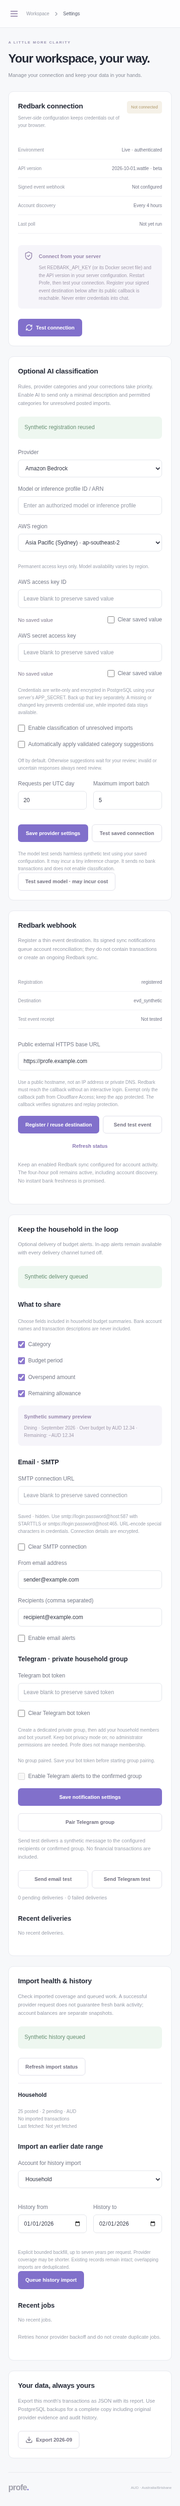
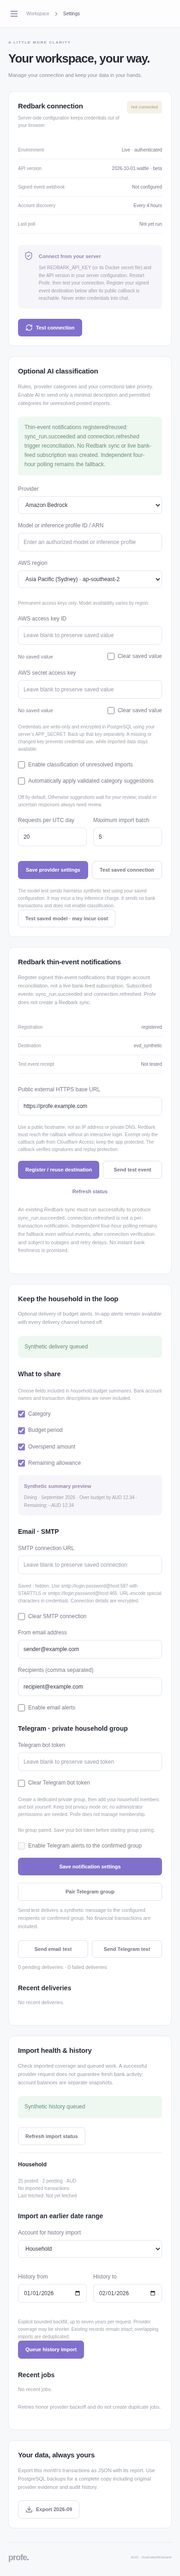
Clarify thin Redbark notifications and imported history coverage

diff --git a/frontend/src/components/integration-settings.jsx b/frontend/src/components/integration-settings.jsx
@@ -315,11 +315,12 @@ export function IntegrationSettings({ api, demo }) {
         </form>
       </section>
       <section className="card settings-card integration-settings">
-        <h2>Redbark webhook</h2>
+        <h2>Redbark thin-event notifications</h2>
         <p className="muted">
-          Register a thin event destination. Its signed sync notifications queue
-          account reconciliation; they do not contain transactions or create an
-          ongoing Redbark sync.
+          Register signed thin-event notifications that trigger account
+          reconciliation, not a live bank-feed subscription. Subscribed events:
+          sync_run.succeeded and connection.refreshed. Profe does not create a
+          Redbark sync.
         </p>
         <dl>
           <div>
@@ -345,12 +346,16 @@ export function IntegrationSettings({ api, demo }) {
         <form
           onSubmit={(e) => {
             e.preventDefault();
-            action(() =>
-              api("/settings/webhook/register", {
+            action(async () => {
+              await api("/settings/webhook/register", {
                 method: "POST",
                 body: JSON.stringify({ publicBaseUrl: baseUrl }),
-              }),
-            );
+              });
+              return {
+                message:
+                  "Thin-event notifications registered/reused: sync_run.succeeded and connection.refreshed trigger reconciliation. No Redbark sync or live bank-feed subscription was created. Independent four-hour polling remains the fallback.",
+              };
+            });
           }}
         >
           <label>
@@ -430,9 +435,11 @@ export function IntegrationSettings({ api, demo }) {
           </div>
         )}
         <p className="footnote">
-          Keep an enabled Redbark sync configured for account activity. The
-          four-hour poll remains active, including account discovery. No instant
-          bank freshness is promised.
+          An existing Redbark sync must run successfully to produce
+          sync_run.succeeded. connection.refreshed is not a per-transaction
+          notification. Independent four-hour polling remains the fallback even
+          without events, after connection verification and subject to outages
+          and retry delays. No instant bank freshness is promised.
           {demo
             ? " Registration and remote tests are unavailable in demo mode."
             : ""}

diff --git a/frontend/src/main.jsx b/frontend/src/main.jsx
@@ -708,6 +708,14 @@ function App() {
               )}
               {page === "Transactions" && (
                 <section className="card transactions-card">
+                  <p className="footnote" style={{ padding: "16px 20px 0" }}>
+                    History includes records already imported into Profe. For
+                    older provider records, use{" "}
+                    <button type="button" onClick={() => setPage("Settings")}>
+                      Settings → Import health &amp; history → backfill
+                    </button>
+                    .
+                  </p>
                   <div className="table-toolbar">
                     <div className="transaction-scope">
                       {accountId && (
@@ -734,7 +742,7 @@ function App() {
                             setIds(null);
                           }}
                         />
-                        All history
+                        All imported history
                       </label>
                       <label>
                         From

diff --git a/docs/redbark.md b/docs/redbark.md
@@ -2,11 +2,13 @@
 
 Profe supports the **v2 thin event destination** contract and read-only v2 bank transaction APIs. No live calls were used in development. Redbark v2 is beta; its documentation currently names `2026-10-01.wattle`. That is a documentation default, not an assertion that your account can use it. Configure the release and run **Test connection** before imports are enabled. The successful test is bound to the API key/version fingerprint; changing either requires another test. Source: [v2 overview](https://redbark.com/docs/api-reference/v2/overview).
 
-Configure `REDBARK_API_KEY` and `REDBARK_WEBHOOK_SECRET` only on the server (or corresponding `_FILE` Docker secrets), `REDBARK_VERSION`, and `REDBARK_BACKFILL_DAYS` (default 90, maximum 2555). Use live mode with authentication configured and a dedicated live database. Never paste credentials into chat or the browser. The UI only exposes configuration presence and safe status codes. Use a key with `data:read`. Profe does not create destinations, change syncs, or ask for write scopes.
+Configure `REDBARK_API_KEY` only on the server (or its `_FILE` Docker secret), `REDBARK_VERSION`, and `REDBARK_BACKFILL_DAYS` (default 90, maximum 2555). Use live mode with authentication configured and a dedicated live database. Use a key with `data:read` for imports. Settings can explicitly create/reuse a thin event destination using `events:write` and destination-list permission; Profe does not change key permissions or provision Redbark syncs. Its one-time signing secret is encrypted with `APP_SECRET`. An existing manually configured destination may instead use server-side `REDBARK_WEBHOOK_SECRET` or its `_FILE` setting. Never paste credentials into chat.
 
-In your Redbark dashboard create an **event destination**, pointing to your HTTPS `/api/webhooks/redbark` endpoint. Subscribe to `transactions.synced`, `connection.*`, and `sync_run.succeeded`. Keep its signing secret server-side. Configure your reverse proxy to preserve the exact request bytes and `Redbark-Signature` header. The receiver validates timestamped HMAC-SHA256, accepts rotated signatures, and rejects signatures outside five minutes. Synchronize the server clock. An event ID and raw bytes are committed with its work item before acknowledgement. Replays deduplicate; conflicting bytes for an existing ID are rejected. Processing is asynchronous, restart-safe and serialized across workers using PostgreSQL advisory locks. Source: [thin events](https://redbark.com/docs/api-reference/v2/events).
+Settings registration subscribes to exactly **`sync_run.succeeded` and `connection.refreshed`** at the public HTTPS `/api/webhooks/redbark` endpoint. These are thin-event notifications that trigger reconciliation, not a live bank-feed subscription. `sync_run.succeeded` requires an existing Redbark sync to run successfully; registering this endpoint creates no such sync. `connection.refreshed` describes connection re-materialisation and is not a per-transaction notification. Without an existing sync, do not expect sync-run events. Neither event guarantees instant new bank activity. Source: [thin events and event definitions](https://redbark.com/docs/api-reference/v2/events).
 
-Every four hours Profe rediscovers accounts and imports the configured rolling date window, including pending rows separately from posted actuals. Events queue the same discovery/import procedure; event URLs are never followed. All discovered banking accounts are included, so no Profe-maintained explicit webhook account list can become stale. If you separately use account-limited Redbark syncs, update their coverage yourself when adding accounts. No connection refresh is sent: refresh queues enabled syncs and cannot guarantee new bank activity. `transactions.synced` describes sync output, not an instantaneous card-use notification.
+Both subscribed event types enqueue the same account-discovery and REST import procedure for all accessible supported accounts and the configured rolling date window. Event URLs are never followed. A synthetic `event_destination.ping` is stored as a verified receipt without importing transactions. Configure the reverse proxy to preserve exact request bytes and `Redbark-Signature`. Profe validates timestamped HMAC-SHA256 and rejects signatures outside five minutes; synchronize the server clock. Event ID, raw bytes and import job are committed before acknowledgement. Replays deduplicate; conflicting bytes for an existing ID are rejected. Processing is asynchronous and serialized across workers using PostgreSQL locks.
+
+**Independent four-hour polling remains the fallback even if no thin events arrive or no destination is registered.** While the process runs with successfully verified API key/version configuration, a fifteen-second scheduler queues one durable poll job per four-hour time bucket. Provider/database outages, Retry-After, queued work and process downtime can delay execution; this is not a guarantee of fresh bank data every four hours. Polling rediscovers accounts and reads balances and transactions already available through Redbark. It does not force a bank refresh. All discovered banking accounts are included. Owners maintain coverage of any separate account-limited Redbark syncs. `transactions.synced` is not subscribed by Settings; it describes sync output rather than instantaneous card use.
 
 Reads use one account, at most 100 rows per page and explicit inclusive dates. A truncated response restarts the window in smaller nonoverlapping calendar ranges. A single truncated day fails visibly; no complete coverage is claimed. Imports repeatedly cover the configured window, recovering overlap and late changes within it. Increase backfill days explicitly to revisit older changes. Brokerage holdings/trades are outside this MVP. Source: [transaction reads](https://redbark.com/docs/api-reference/v2/transactions/list-transactions).
 
@@ -26,7 +28,7 @@ Posted rows use `post_date` when provided, otherwise the provider's transaction 
 
 ## Register from Settings
 
-With live authentication, a tested server-side Redbark API key, and a strong `APP_SECRET`, enter the public HTTPS **origin** in Settings (for example `https://finance.your-domain.net`) and explicitly select Register. Profe registers `/api/webhooks/redbark` as a **thin event destination**, subscribing to `sync_run.succeeded` and `connection.refreshed`. It does not create a full transaction destination or a bank sync. Configure enabled bank syncs in Redbark; the registration status states this coverage limitation. Existing four-hour discovery/reconciliation remains active.
+With live authentication, a tested server-side Redbark API key, and a strong `APP_SECRET`, enter the public HTTPS **origin** in Settings (for example `https://finance.your-domain.net`) and explicitly select Register. Profe registers `/api/webhooks/redbark` as a **thin event destination**, subscribing to `sync_run.succeeded` and `connection.refreshed`. It does not create a full transaction destination or a bank sync. An existing Redbark sync is required to produce `sync_run.succeeded`; `connection.refreshed` is not a per-transaction signal. Configure any desired syncs separately in Redbark. Independent four-hour polling remains the fallback, subject to verification, availability and backoff.
 
 Only public DNS names resolving to public addresses are accepted; credentials, paths, query strings, nonstandard ports and IP literals are rejected. Profe never fetches the callback URL or follows event-provided URLs. All provider requests use the fixed Redbark v2 origin and reject redirects. The endpoint must be reachable by Redbark without interactive login. If using Cloudflare Access, create a narrow exception for `/api/webhooks/redbark` only; keep the UI protected. HMAC verification and timestamp replay protection remain mandatory; do not rely on a source-IP allowlist.
 

diff --git a/docs/deployment.md b/docs/deployment.md
@@ -118,6 +118,6 @@ Alerts are persisted and deduplicated in-app. Their state is recalculated in the
 
 Configured AI processes unresolved posted imports automatically using durable jobs, after manual overrides, rules and useful provider categories. `LLM_AUTO_CLASSIFY=false` disables automatic processing while keeping on-demand suggestions. `LLM_AUTO_APPLY=false` is the default: automatic category application requires explicit opt-in. `LLM_DAILY_REQUEST_LIMIT=20` and `LLM_BATCH_SIZE=5` bound request volume; see [classification behavior and limits](classification.md).
 
-Account labels and descriptions in Profe are local overrides, retained across provider refreshes. Every connected account remains included in synchronization, classification, the overview and budgets; account disabling is not supported. Clicking an account opens its paginated transaction history, with adjustable dates and an all-history option. Confirmed internal transfers and card repayments remain excluded from spending, including in an account-scoped list. The overview offers 1, 2, 3, 4 or 6 calendar months ending in the selected month, a monthly comparison and aggregate drilldowns; the current month is marked partial. Monthly budget caps remain scoped to the selected final month.
+Account labels and descriptions in Profe are local overrides, retained across provider refreshes. Every connected account remains included in synchronization, classification, the overview and budgets; account disabling is not supported. Clicking an account opens its paginated transaction history, with adjustable dates and an all-imported-history option. This includes only records already stored in Profe; use Settings → Import health & history for explicit bounded backfill of older provider records. Confirmed internal transfers and card repayments remain excluded from spending, including in an account-scoped list. The overview offers 1, 2, 3, 4 or 6 calendar months ending in the selected month, a monthly comparison and aggregate drilldowns; the current month is marked partial. Monthly budget caps remain scoped to the selected final month.
 
 JSON exports include the complete selection, irrespective of the transaction table's current page. For a month/period export, `summary` uses the same full-period report as the overview and `selectionSummary` applies optional transaction filters; both scopes are labeled. Date-range and all-history exports summarize exactly the exported records. Monetary values remain integer minor-unit strings throughout.

diff --git a/docs/verification.md b/docs/verification.md
@@ -56,3 +56,5 @@ The final enhanced suite includes real PostgreSQL encryption/rotation, multi-mon
 The backup/restore rehearsal preserves all 20 tables, including four encrypted synthetic credential slots, pending/sent notification outbox records, alert transitions, webhook registration, account labels and bounded backfill parameters. The separate synthetic master key decrypts restored credentials; missing/wrong keys fail closed. No real external accounts, financial calls, sends or registrations were used.
 
 Final packaging inspection moved the shared exact-money formatter into `shared/` and explicitly copies it into both Docker stages, preventing a runtime import of an omitted frontend source file. Docker base-image download remains the only container build blocker.
+
+The final copy clarification removes contradictory legacy Redbark setup instructions. Settings now names both subscribed thin events, explains no sync provisioning or instant bank feed, and confirms independent polling. Transaction history explicitly means all imported records, with navigation to bounded backfill. Production build, both browser suites (including the new registration confirmation and backfill link), formatting and diff checks passed after this change.
